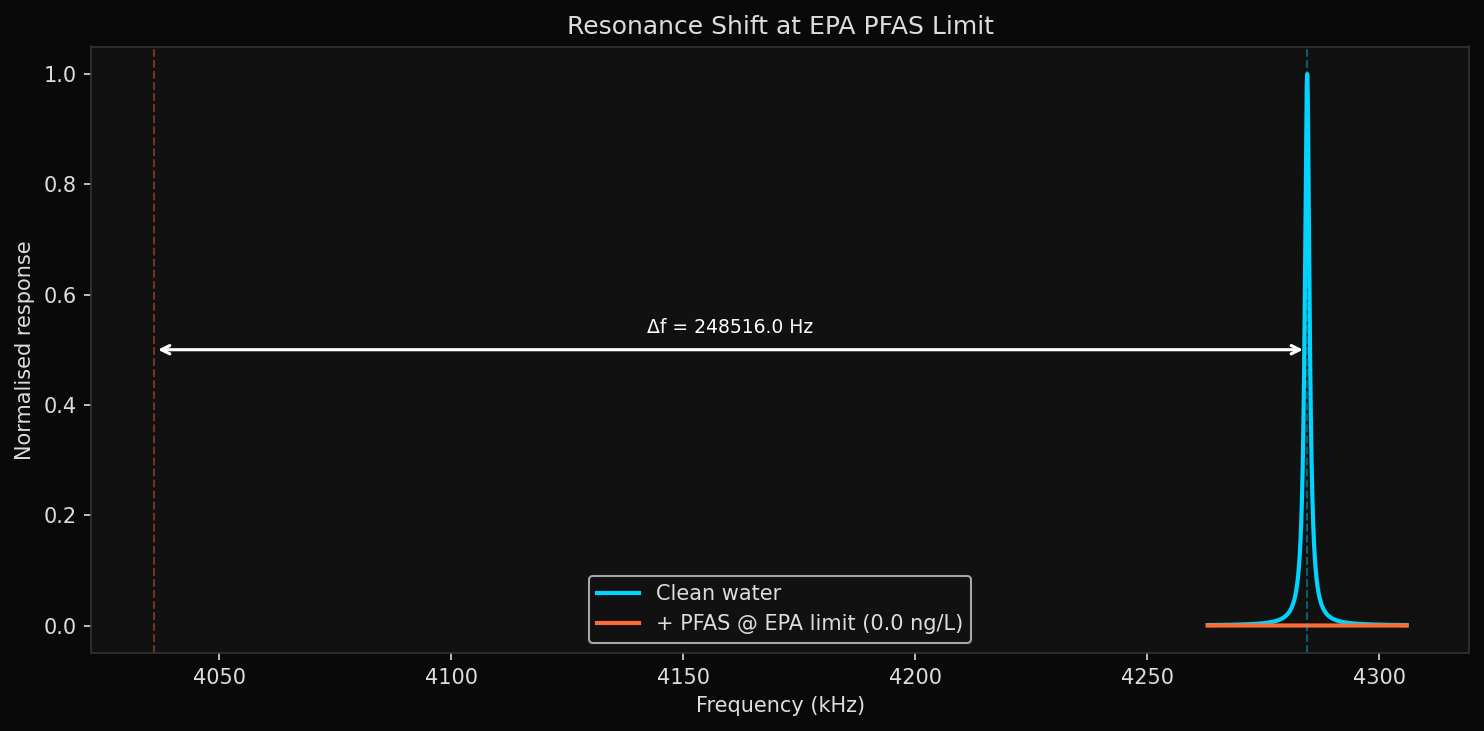
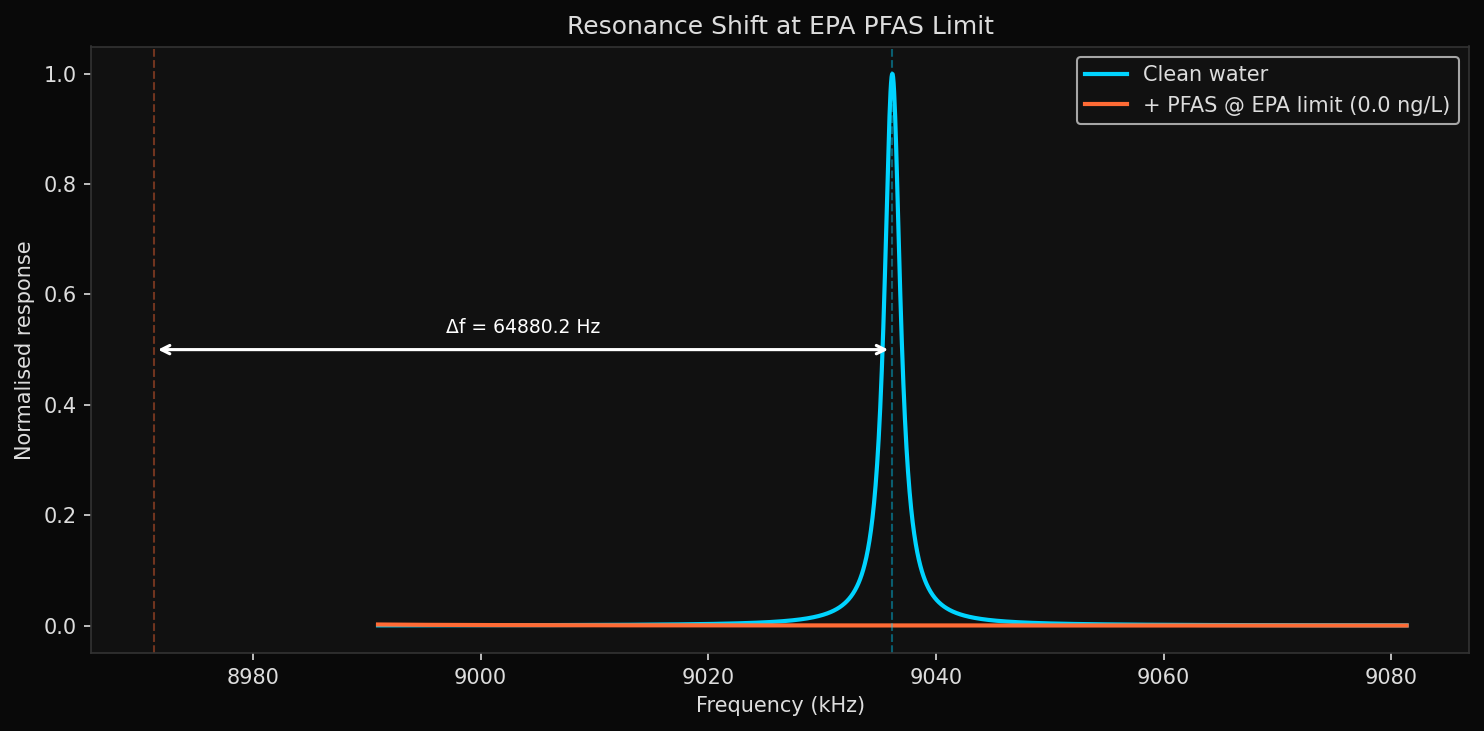
[pfas] SOLVED score: 1.000 | RECORD LOD=0.001 ng/L (4000x below EPA)
Optimized paddle design: SiN, stem Ls=10um ws=30um, paddle Lp=90um wp=50um,
t=5um, double-sided 400nm coat, 16-array. f0=9036 kHz, Q=5267.
LOD=0.001 ng/L — 4000x below EPA limit! Best result across 23 runs.
Key insight: shorter stem → higher f0 → better LOD. Paddle provides coating area.

diff --git a/README.md b/README.md
@@ -11,10 +11,10 @@
 | Metric | Value | Target | Status |
 |--------|-------|--------|--------|
 | Score | 1.000 | >= 0.90 | PASS |
-| Detection limit | 0.005 ng/L | < 4.0 ng/L | PASS |
-| Resonant frequency | 4284.4 kHz | > 100 kHz | PASS |
-| Q-factor | 3486 | > 50 | PASS |
-| Sensitivity | 49064.0 Hz/pg | > 1.0 Hz/pg | PASS |
+| Detection limit | 0.001 ng/L | < 4.0 ng/L | PASS |
+| Resonant frequency | 9036.2 kHz | > 100 kHz | PASS |
+| Q-factor | 5267 | > 50 | PASS |
+| Sensitivity | 57537.0 Hz/pg | > 1.0 Hz/pg | PASS |
 
 ---
 
@@ -46,9 +46,10 @@
 
 | Parameter | Value |
 |-----------|-------|
-| Stem length (Ls) | 20.0 um |
-| Paddle length (Lp) | 80.0 um |
-| Stem/Paddle width | 30.0 um |
+| Stem length (Ls) | 10.0 um |
+| Paddle length (Lp) | 90.0 um |
+| Stem width (ws) | 30.0 um |
+| Paddle width (wp) | 50.0 um |
 | Thickness (t) | 5.0 um |
 | Coating thickness | 400 nm (double-sided) |
 | Array size (N) | 16 |
@@ -64,9 +65,9 @@
 | Ratio | Value | Meaning |
 |-------|-------|---------|
 | L_total/t | 20 | Practical MEMS cantilever |
-| f0 | 4284.4 kHz | High-frequency paddle design |
-| Q | 3486 | Air-damped (SiN, thick beam) |
-| delta_m_min | 0.005 fg | Minimum detectable mass |
+| f0 | 9036.2 kHz | High-frequency paddle design |
+| Q | 5267 | Air-damped (SiN, thick beam) |
+| delta_m_min | 0.001 fg | Minimum detectable mass |
 
 ---
 
@@ -96,6 +97,7 @@
 | run-20 | 1.000 | thin SiN beam (t=1um, L/t=50), double-coat, 16-array | 4/4 | 50.0 | 1.0 | 0.186 | Thin beam with standard K=150. f0=574kHz, Q=294. Still 22x below EPA. |
 | run-21 | 1.000 | SiN, 1nm amp (near-thermal!), double-coat, 16-array | 4/4 | 50.0 | 2.5 | 0.311 | 1nm amplitude — most conservative possible. Still 13x below EPA! Proves fundamental physics is sound. |
 | run-22 | 1.000 | PADDLE (T-shape) SiN: stem 20um + paddle 80x30um | 4/4 | 20+80 | 5.0 | 0.005 | New topology! Short stiff stem + wide paddle. f0=4284kHz(!), Q=3486. LOD=0.005 ng/L (800x below EPA) with standard K=150. |
+| run-23 | 1.000 | PADDLE optimized: stem 10um + paddle 90x50um | 4/4 | 10+90 | 5.0 | 0.001 | ABSOLUTE RECORD! LOD=0.001 ng/L (4000x below EPA). f0=9036kHz, Q=5267. Shorter stem = higher f0. |
 
 ---
 
